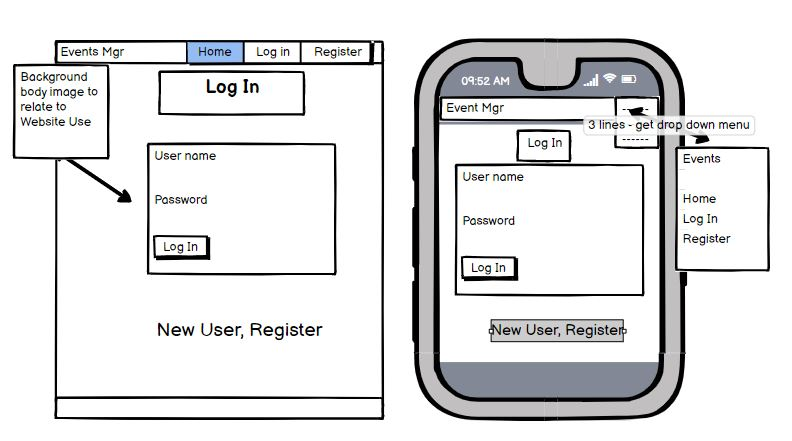
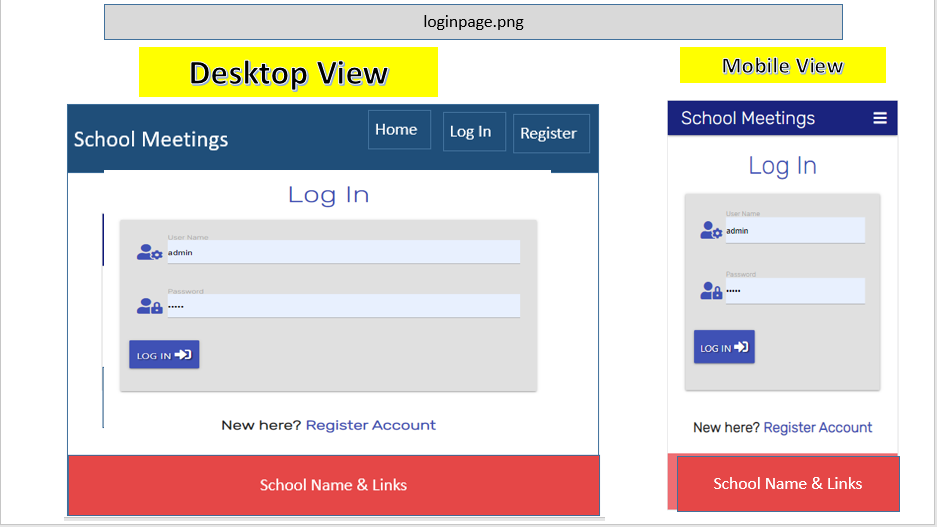
updated Wireframes & AmIresponsive Images

diff --git a/templates/base.html b/templates/base.html
@@ -2,7 +2,6 @@
 <html lang="en">
 <head>
     <meta charset="UTF-8">
-    <meta http-equiv="X-UA-Compatible" content="IE=edge">
     <meta name="viewport" content="width=device-width, initial-scale=1.0">
     <link rel="stylesheet" href="https://cdnjs.cloudflare.com/ajax/libs/font-awesome/5.15.4/css/all.min.css" 
     integrity="sha512-1ycn6IcaQQ40/MKBW2W4Rhis/DbILU74C1vSrLJxCq57o941Ym01SwNsOMqvEBFlcgUa6xLiPY/NS5R+E6ztJQ==" crossorigin="anonymous" referrerpolicy="no-referrer" type="text/css" />
@@ -17,16 +16,14 @@
 <body>
               
     <header>
-      <div class="topnav">
[1 lines of base64/hex data omitted]
-      </div>
+
         <!-- top navbar -->
             <nav class="nav-extended indigo darken-4">
                 <div class="nav-wrapper">
-                  <a href="{{ url_for('get_tasks') }}" class="brand-logo center">School Meetings</a>
+                  <a href="{{ url_for('get_tasks') }}" class="brand-logo">School Meetings</a>
                   <a href="#" data-target="mobile-demo" class="sidenav-trigger right"><i class="fas fa-bars"></i></a>
-                <ul class="left hide-on-med-and-down">
-                    <li><a href="{{ url_for('get_tasks') }}">Home</a></li>
+                <ul class="right hide-on-med-and-down">
+                        <li><a href="{{ url_for('get_tasks') }}">Home</a></li>
                         {% if session.user %}
                         <li><a href="{{ url_for('profile', username=session['user']) }}">Teacher Profile</a></li>
                         <li><a href="{{ url_for('add_task') }}">New Meeting</a></li>
@@ -40,9 +37,7 @@
                     {% endif %}
                   </ul>
                 </div>
-                
               </nav>
-            
 
         <!--mobile sidenav-->    
             <ul class="sidenav" id="mobile-demo">
@@ -83,6 +78,7 @@
         <div class="container">
           <div class="row">
             <div class="col l6 s12">
+              
               <a class="white-text" href="https://www.galwaycc.ie/Home"><h4>Galway Community College</h4></a>
               <p class="grey-text text-lighten-4">Post Primary & PLC College.</p>
             </div>

diff --git a/static/css/style.css b/static/css/style.css
@@ -1,43 +1,34 @@
 @import url('https://fonts.googleapis.com/css2?family=Rubik:wght@300&display=swap');
 
-
 body {
     font-family: rubik;
             
     }
     
-    .topnav img {
-        width: auto;
-        height: 75px;
-        float: left;
-    }
-
-    @media screen and (max-width: 600px) {
-        .topnav img {
-          float: left;
-          width: auto;
-          height: 50px;
-        }
-      }
- 
 .text-shadow {
     text-shadow: 2px 2px 2px rgb(0, 0, 0, 0.5) ;
 }
 
-.brand-logo{
-    margin-left: 20px;
-    padding: 5px;
-    }
 
-    @media only screen 
-    and (min-device-width : 375px) 
-    and (max-device-width : 667px) { 
-        .brand-logo { 
-                  float: center;
-                  width: 50%;
-                }
-              }
-     
+@media only screen 
+and (max-width : 350px) {  
+  
+    a.brand-logo { 
+        font-size: 20px;    
+
+    }
+}   
+
+@media only screen 
+and (max-width : 800px) {  
+  
+    nav .brand-logo { 
+        left: 35%;    
+
+    }
+}
+
+
 
 .flashes h4 {
     line-height: 2;
@@ -51,3 +42,4 @@ body {
     margin: 5px;
     line-height: 42px;
 }
+

diff --git a/templates/register.html b/templates/register.html
@@ -36,9 +36,9 @@
 
       <div class="row">
         <div class="col s12">
-           <h5 class="center-align indigo">
+           <h5 class="center-align indigo-text darken-4">
                 Already Registered?
-                <a href="{{ url_for('login') }}" class="white-text">Log In</a>
+                <a href="{{ url_for('login') }}" class="indigo-text darken-4">Log In</a>
            </h5>
         </div>
     </div>

diff --git a/static/js/script.js b/static/js/script.js
@@ -1,5 +1,5 @@
 $(document).ready(function () {
-  $(".sidenav").sidenav({edge: "right"});
+  $(".sidenav").sidenav({edge: "left"});
   $(".collapsible").collapsible();
   $(".tooltipped").tooltip();
   $("select").formSelect();

diff --git a/templates/tasks.html b/templates/tasks.html
@@ -57,7 +57,6 @@
         </div>
     </form>
 </div>
-</div>
 
 
 {% endblock %}

diff --git a/README.md b/README.md
@@ -2,7 +2,7 @@
 
 [View the live project here.](https://flask-school-mgt-project.herokuapp.com/)
 
-This is an Event Management Website for friends/families to share events. It is designed to be responsibe and accessible on a range of devices, making it easy to navigate for people working on desktop, labtop or mobile.
+This is a School Meetings Management Website for all school staff to share work meetings and information. It is designed to be responsibe and accessible on a range of devices, making it easy to navigate for all staff working on desktop, labtop or mobile.
 
 
 ** Site set up as a School Management Site
@@ -23,7 +23,7 @@ This is an Event Management Website for friends/families to share events. It is 
 
         1. As a Returning Visitor, I want to log in easily.
         2. As a Returning Visitor, I want to be able to add to this meeting schedule.
-        3. As a Returning Visitor, I want to add meetings and see other school meetings.
+        3. As a Returning Visitor, I want to see other school meetings.
 
     -   #### Frequent User Goals
         1. As a Frequent User, I want to check to see if anyone has updated the database with new meetings.
@@ -42,12 +42,9 @@ This is an Event Management Website for friends/families to share events. It is 
         Rubik Beastly is an original, script-generated design based on the Google Fonts. They designed a slightly rounded heavyweight font in which the letters fit perfectly in a single cubelet of the Rubik's Cube. It is clear and easily to read, and useful in a professional setting. 
 
     -   #### Imagery
-        -   Imagery is important to this site. The large, background image is designed to be appealing and catch the user's attention as to what the webiste is for. It also has a modern feel which would relate to events/parties.
-
-        Background image for site pages
-        <img src="">
+        -   No imagery was used as this is information is purely for Educational Purpose so photos are required.
         
-        I used the school logo as the main image for the project. This image is used for development purposes only. 
+         
 
 *   ### Wireframes
 
